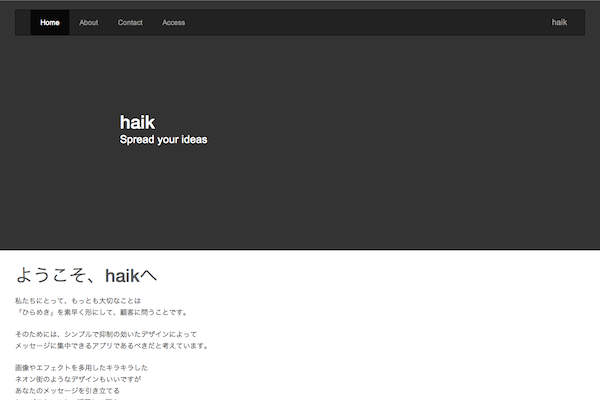
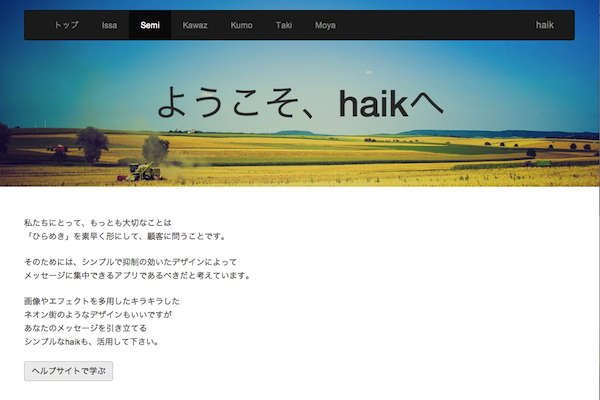
fitレイアウトの追加 横幅がウィンドウ幅にフィットするレイアウト

diff --git a/css/docs.css b/css/docs.css
@@ -85,6 +85,11 @@ body {
 	color: #fff;
 }
 
+/* EYECATCH 
+-------------------------------------------------- */
+#orgm_eyecatch .haik-section{
+	padding-top: 72px;
+}
 
 /* MARKETING CONTENT
 -------------------------------------------------- */
@@ -239,16 +244,6 @@ body {
   	color: inherit;
   }
 
-/*
-  #orgm_eyecatch .carousel .item {
-    height: 500px;
-  }
-  #orgm_eyecatch .carousel img {
-    width: auto;
-    height: 500px;
-  }
-*/
-
   .featurette {
     height: auto;
     padding: 0;
@@ -279,6 +274,7 @@ body {
 
 	#orgm_eyecatch .haik-section{
 		height: 250px !important;
+		padding-top: 72px;
 	}
 	#orgm_eyecatch .carousel .item {
 		max-height: 250px !important;

diff --git a/fit.skin.php b/fit.skin.php
@@ -1,0 +1,93 @@
+<head prefix="#{$head_prefix}">
+	#{$meta_content_type}
+	<title>#{$page_title}</title>
+	#{$viewport}
+	<meta name="keywords" content="#{$keywords}">
+	<meta name="description" content="#{$description}">
+	<meta name="author" content="">
+	<link rel="alternate" type="application/rss+xml" title="RSS" href="#{$rss_link}">
+
+	#{$bootstrap_css}
+	#{$style_css}
+	
+	#{$head_tag}
+	#{$plugin_head}
+	#{$user_head}
+	
+	#{$tracking_script}
+
+</head>
+
+<body>
+#{$body_first}
+#{$sr_link}
+
+
+<header>
+	<!-- Navbar
+	================================================== -->
+	<div class="navbar-wrapper">
+		<div class="container">
+			<div id="orgm_navbar" class="navbar navbar-inverse">
+				<div class="container">
+					<div class="navbar-header navbar-right">
+						<button type="button" class="navbar-toggle" data-toggle="collapse" data-target=".navbar-collapse">
+							<span class="icon-bar"></span>
+							<span class="icon-bar"></span>
+							<span class="icon-bar"></span>
+						</button>
+						<div id="logo">#{$logo}</div>
+					</div>
+					<nav class="navbar-collapse collapse">
+						#{$site_navigator}
+					</nav>
+				</div>
+			</div>
+		</div>	
+	</div>
+	
+	<!-- EyeCatch
+	================================================== -->
+	<div id="orgm_eyecatch">#{$eyecatch}</div>
+</header>
+
+<!-- Body
+================================================== -->
+<div id="contents" role="main" class="marketing">
+	#{$body}
+</div>
+
+<aside>
+	#{$summary}
+</aside>
+
+<hr class="featurette-divider">
+
+<!-- Footer
+================================================== -->
+<footer class="footer">
+	<div class="container">
+		#{$site_footer}
+	</div>
+	<div id="license" class="container">
+		#{$license_tag}
+	</div>
+</footer>
+
+#{$admin_nav}
+
+#{$body_last}
+
+<!-- Script
+================================================== -->
+#{$jquery_script}
+#{$bootstrap_script}
+#{$common_script}
+#{$admin_script}
+
+#{$plugin_script}
+#{$user_script}
+<script src="#{$style_path}skin.js"></script>
+
+</body>
+</html>

diff --git a/config.php b/config.php
@@ -1,7 +1,7 @@
 <?php
 $config = array(
 	'name' => 'semi',
-	'version' => '1.1.0',
+	'version' => '1.2.0',
 	'thumbnail' => 'img/thumbnail.png',
 	'style_file' => 'css/docs.css',
 	'templates' => array(
@@ -14,7 +14,12 @@ $config = array(
 			'filename' => 'content.skin.php',
 			'layouts' => array('SiteNavigator', 'SiteFooter', 'MenuBar'),
 			'thumbnail' => 'img/thumbnail.content.png',
-		)
+		),
+		'fit' => array(
+			'filename' => 'fit.skin.php',
+			'layouts' => array('SiteNavigator', 'SiteFooter'),
+			'thumbnail' => 'img/thumbnail.fit.png',
+		),
 	),
 	'default_template' => 'content',
 	'colors' => array(
